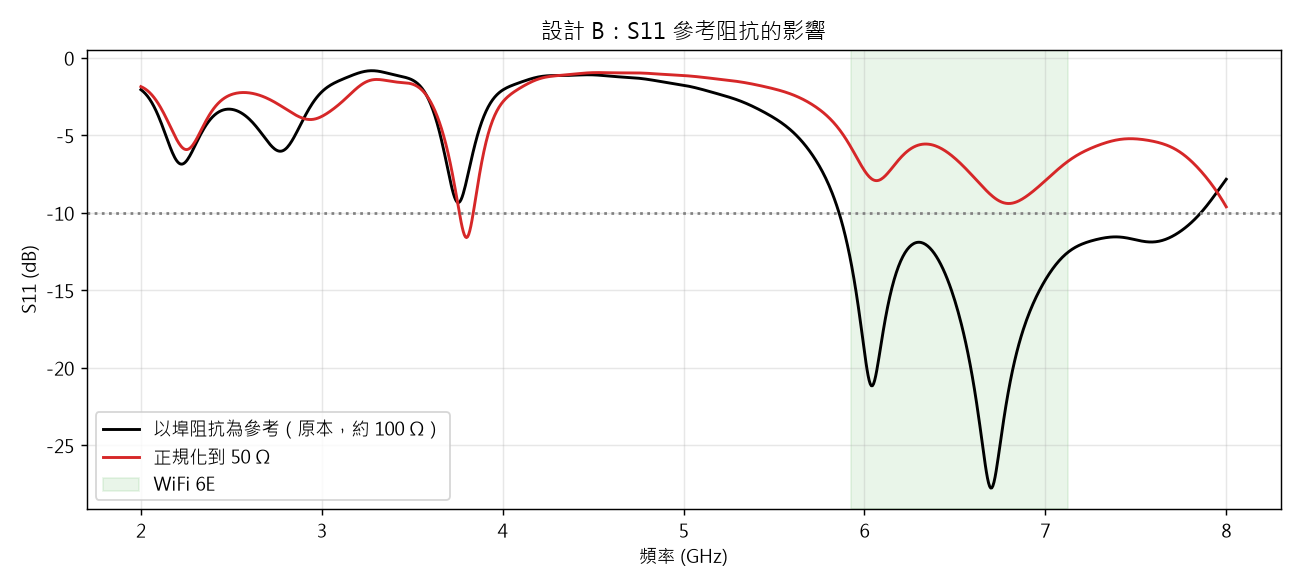
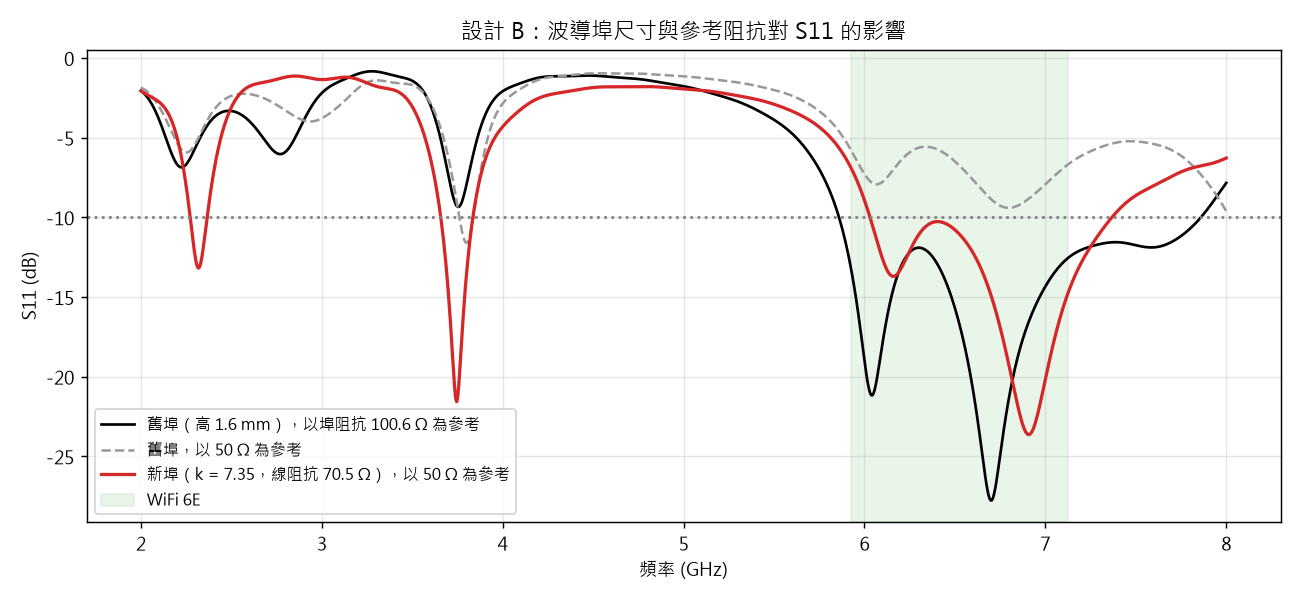
找到波導埠過小的根本原因並以修正埠驗證設計 B（50 Ω 下 91.5%），更新報告、README 與架構文件

diff --git a/README.md b/README.md
@@ -96,7 +96,8 @@ pip install -r requirements.txt   # torch 2.14.0、numpy 2.5.3、matplotlib 3.11
 每次 commit 後由 Claude 讀取變更內容整理，新的在最上面。
 
 <!-- CHANGELOG:START -->
-- **2026-11-21** 報告與參考阻抗限制：(1) 專題報告正本整理在 Claude Docs 線上文件，`report/專題報告.md` + `report/figures/` 為匯出副本；報告數字全部更新為定版模型，新增 3.1.5 獨立測試集、3.2.5 參考阻抗的限制。(2) **發現 S11 參考阻抗問題**：CST 沒勾選 Normalize to fixed impedance，所有資料以波導埠模態阻抗為參考，CST 算出埠線阻抗 100.6 Ω；verify_best3 以 50 Ω 正規化重跑後 6E 覆蓋率 100% → 0%（最差 −5.57 dB），設計是對約 100 Ω 匹配，報告列為主要限制（方案 A）。公式估此線寬約 74 Ω，和 100.6 Ω 的差異待確認波導埠設定（CST 巨集 k = 7.35）。新增 `cst/export_current_s11.bas`（不重跑、只匯出目前 S1,1），50 Ω 結果存 `data_50ohm/`（不進訓練、不上 git）。(3) `plot_sweeps` 只畫單參數掃描檔：DOE 熱圖無法和 CST 比較、單點 verify 檔畫不出熱圖（舊圖最下面兩列空白）。(4) 報告 2.2 註明基板為 CST 的 FR-4 (lossy)（εr 4.3、tan δ 0.025）。
+- **2026-11-21** 找到波導埠問題的根本原因：原本的埠（Use picks 點基板端面）只涵蓋基板厚度 z 0–1.6 mm，饋入線外側沒有空氣，CST 把線阻抗算成 100.6 Ω、等效介電常數 4.22（幾乎等於 FR-4）。依 CST 巨集 k = 7.35 重建埠（x ±12.51、z −0.035–13.395，另存專案 `wifi_test_newport`）後線阻抗 70.5 Ω（公式 74 Ω）、等效介電常數 3.21。設計 B 用修正埠＋50 Ω 正規化：**6E 覆蓋率 91.5%**（舊埠＋50 Ω 為 0%），下緣 5.925–6.032 GHz 未過線，共振 6.04/6.70 → 6.16/6.91 GHz；比較圖 `outputs/compare_port_50ohm.png`，資料 `data_50ohm/verify_best3_50ohm_newport.txt`。報告 2.2、3.2.5（改名「波導埠與參考阻抗的限制」，表 3-7 三種情況、圖 3-9 三條曲線）、摘要、4.1、4.2 改寫；未來工作改為以修正埠＋50 Ω 重跑掃描與 DOE。`export_current_s11.bas` 輸出檔名改為 `verify_best3_50ohm_newport.txt`。
+- **2026-11-21** `2d93a40` 報告與參考阻抗限制：(1) 專題報告正本整理在 Claude Docs 線上文件，`report/專題報告.md` + `report/figures/` 為匯出副本；報告數字全部更新為定版模型，新增 3.1.5 獨立測試集、3.2.5 參考阻抗的限制。(2) **發現 S11 參考阻抗問題**：CST 沒勾選 Normalize to fixed impedance，所有資料以波導埠模態阻抗為參考，CST 算出埠線阻抗 100.6 Ω；verify_best3 以 50 Ω 正規化重跑後 6E 覆蓋率 100% → 0%（最差 −5.57 dB），設計是對約 100 Ω 匹配，報告列為主要限制（方案 A）。公式估此線寬約 74 Ω，和 100.6 Ω 的差異待確認波導埠設定（CST 巨集 k = 7.35）。新增 `cst/export_current_s11.bas`（不重跑、只匯出目前 S1,1），50 Ω 結果存 `data_50ohm/`（不進訓練、不上 git）。(3) `plot_sweeps` 只畫單參數掃描檔：DOE 熱圖無法和 CST 比較、單點 verify 檔畫不出熱圖（舊圖最下面兩列空白）。(4) 報告 2.2 註明基板為 CST 的 FR-4 (lossy)（εr 4.3、tan δ 0.025）。
 - **2026-11-20** `ee8357a` 獨立測試集結果：定版模型對 `data_test/test_set.txt`（8 點，模型定版後才跑 CST，未用於訓練）設計用途 **6/8 通過**（75%，Clopper-Pearson 95% 信賴區間 35–97%），平均覆蓋率誤差 2.7 個百分點、平均邊緣誤差 31 MHz、全頻 RMSE 0.86 dB。未通過 2 點都是 −10 dB 下緣預測偏樂觀（預測 96.5% vs 實測 83.5%；95.5% vs 90.0%，後者 RMSE 只有 0.24 dB，但 S11 貼著 −10 dB，小誤差就讓下緣差 294 MHz），8 點中 6 點下緣偏低，和 ±0.5 mm 容差角落的失效方式一致。−10 dB 附近的 σ 偏保守約 2 倍。`compare_verify.py` 總結改印通過率的 Clopper-Pearson 信賴區間（不需 scipy）。
 - **2026-11-20** `fe4b420` 報告前定版：(1) 新增**設計用途準確度**（`design_accuracy`）當「模型夠準」的門檻：6E 覆蓋率誤差 ≤ 5 個百分點、−10 dB 邊緣誤差 ≤ 100 MHz（邊緣夾到頻段 ±0.2 GHz），留一驗證與 `compare_verify.py` 都會判定；留一驗證 21 點中 18 點通過（多參數 13/16），最佳區 4 點全過，未通過的是第 2 批 DOE 高 W_slot2、低 Ymax 角落 2 點與 verify_best2（偏保守）。(2) 不確定性改為只用 −10 dB 附近頻點校正：s = 3.10（全頻 3.20），幾乎沒變，因為 verify_best3 漏掉的 6.04 GHz 共振正好落在 −10 dB 附近（誤差保守）。(3) `cst/make_doe.py --test` 產生獨立測試集（verify_best3 周圍 ±1.5 mm、8 點、seed 2028），輸出到 `data_test/`，不會被訓練；`compare_verify.py` 多組時印總結與通過率 95% 信賴下限。(4) 新增 `requirements.txt`；`in_band_mask`、`main_segment` 移到 `antenna_ml.py` 共用。模型權重與上次相同（亂數種子固定），只有 s 改變，最佳化結果不變。模型就此定版。
 - **2026-11-20** `14d474c` 用全部 168 組重訓（納入 `verify_tol03`、`verify_tol05`）：留一驗證藏 21 條，平均 AI 1.20 vs baseline 1.66 dB；原本 18 點結果完全相同（1.13 dB），上升只是多了 3 個最佳區容差角落（1.96 / 1.94 / 1.00 dB，覆蓋率誤差 0–1.5 個百分點，誤差主要在共振谷深度），s 從 2.55 升到 3.20、β = 0。新第 1 名 [36.586, 13.481, 22.734, 14.537] 預測邊界餘裕 2.34 dB（±0.96），verify_best3 排第 5（預測 1.94，實測 1.91）；改進空間 ≤ 0.4 dB 小於不確定性，設計仍視為收斂。新模型重跑 `tolerance.py`：3 個角落估計與 CST 差 ≤ 0.11 dB（已是訓練點），±0.1 / 0.3 / 0.5 mm 良率 100 / 100 / 99.1%，Ymax 斜率從 +0.66 降到 +0.36 dB/mm。

diff --git a/架構與目標.md b/架構與目標.md
@@ -124,13 +124,24 @@ data/*.txt (CST 匯出)
 
 **目前最佳設計：verify_best3** [W_slot1=36.97, W_slot2=12.502, W_slot3=22.944, Ymax=13.932]，CST 實測 6E 覆蓋率 100%、邊界餘裕 1.91 dB、−10 dB 頻寬 5.864–7.856 GHz（相對頻寬約 29%）。模型預測的改進空間（約 0.4 dB 邊界餘裕）小於不確定性，**設計已經收斂**。
 
-**⚠ 主要限制：參考阻抗（2026-11-21 發現，報告寫成限制）**。CST 求解器沒勾選 **Normalize to fixed impedance**，所有 S11（168 條訓練資料、最佳化、容差、獨立測試）都以波導埠的模態阻抗為參考；CST 算出的埠線阻抗（1D Results → Port Information → Line Impedance）為 **100.6 Ω**（5 GHz）。verify_best3 勾選 50 Ω 正規化重跑（`cst/export_current_s11.bas` 匯出到 `data_50ohm/verify_best3_50ohm.txt`，不放 `data/`）：**6E 覆蓋率 100% → 0%**，帶內最差 −11.91 → −5.57 dB、平均 −17.02 → −7.40 dB，−10 dB 只剩 3.76–3.84 GHz；比較圖 `outputs/compare_50ohm.png`。也就是說設計是對約 100 Ω 匹配，接 50 Ω 接頭與儀器前需要匹配。ML 方法與準確度結論不受影響（同一參考下成立）。尚未釐清：微帶線公式估 1.5 mm 線寬在 FR-4（εr 4.3）、h 1.6 mm 上約 74 Ω（50 Ω 約需 3 mm），和 CST 的 100.6 Ω 差很多，可能是波導埠設定（埠寬取整個板寬 52 mm；CST 巨集算出 k = 7.35，建議埠寬約 25 mm、線上方高度約 11.8 mm）。
-處理方案（未做）：(A) 寫成限制（目前選擇）；(B) 若 CST 專案保留各次模擬的複數 S11，匯出後在程式中換算到 50 Ω、重訓與最佳化，不用重跑模擬；(C) 饋入線改約 3 mm 或加阻抗轉換段，以 50 Ω 正規化重新取樣。
+**⚠ 主要限制：波導埠過小（2026-11-21 發現並確認，報告寫成限制）**。
+- **原本的埠**：Use picks 點選基板下緣端面，x −26 ~ 26、z 0 ~ 1.6（只有基板厚度），延伸量 0，饋入線外側沒有空氣。求解器沒勾選 **Normalize to fixed impedance**，所以 168 條訓練資料、最佳化、容差、獨立測試的 S11 全都以這個埠的模態阻抗為參考。CST 算出線阻抗 **100.6 Ω**、β 215.3 1/m（等效介電常數約 4.22，幾乎等於 FR-4 本身 → 空氣中的電場被截掉）。
+- **修正後的埠**（CST 巨集 Calculate port extension coefficient：W 1.5、h 1.6、εr 4.3、2–8 GHz → k = 7.35）：x −12.51 ~ 12.51、z −0.035 ~ 13.395、Ypos −25（Use picks + 延伸量 X −13.49、Zmin 0.035、Zmax 11.795；Free 模式的 Free normal position 在 CST 2025 沒生效，埠會跑到計算空間邊界 y ≈ −40）。線阻抗 **70.5 Ω**（公式估 74 Ω）、β 187.9 1/m（等效介電常數約 3.21），證實 100.6 Ω 是埠太小的假象。CST 專案另存為 `wifi_test_newport`，原專案未動。
+- **設計 B 三種情況**（比較圖 `outputs/compare_port_50ohm.png`，資料在 `data_50ohm/`，不進訓練、不上 git）：
+
+  | 埠 | 參考阻抗 | 6E 覆蓋率 | 帶內最差 | 涵蓋 6E 的 −10 dB 區段 |
+  |---|---|---|---|---|
+  | 原本 | 埠阻抗 100.6 Ω（訓練資料） | 100% | −11.91 dB | 5.864–7.856 GHz |
+  | 原本 | 50 Ω | 0% | −5.57 dB | 無 |
+  | **修正** | **50 Ω** | **91.5%** | −6.99 dB | 6.032–7.364 GHz |
+
+  修正後兩個共振從 6.04 / 6.70 移到 6.16 / 6.91 GHz，下緣 5.925–6.032 GHz（約 107 MHz）沒過線，和獨立測試集、±0.5 mm 容差角落的失效位置相同。
+- ML 方法與準確度結論不受影響（同一埠設定下成立）；要讓設計在 50 Ω 系統可用，需以修正後的埠＋50 Ω 正規化重跑掃描與 DOE（既有巨集，約 170 組），再用同一套程式重訓與最佳化。原本規劃的「匯出複數 S11 離線換算 50 Ω」不可行：問題在埠本身，不只是參考阻抗。
 
 報告前要補的（依重要性）：
 
 1. ~~獨立測試集~~ **已完成**：6/8 通過（95% 信賴區間 35–97%），失效都是 −10 dB 下緣偏樂觀，見第 6 步。
-1. **確認波導埠設定**：看 Port Modes 的電場分佈、接地面與基板是否延伸到埠面；以 k = 7.35 建埠重跑比較 S11 與 Line Impedance，釐清 100.6 Ω vs 74 Ω。
+1. ~~確認波導埠設定~~ **已完成**：埠高度只有基板厚度；以 k = 7.35 重建後線阻抗 70.5 Ω，設計 B 在 50 Ω 下 91.5%（見上）。
 2. **CST 網格收斂**：verify_best3 用加密網格再跑 1 組，帶內最差點變化應 < 0.2 dB，否則 0.3–0.5 mm 容差結論要保留。
 3. **板厚、介電常數容差**：模型沒學過這兩個固定參數，只能直接用 CST 跑（H_sub 1.5 / 1.7 mm、介電常數 ±0.2）。介電常數偏低會讓頻率往高漂，正好是下緣這個弱點。
 4. **輻射特性**：目前只評估 S11；若規格要求增益、效率、方向圖，用 CST farfield monitor 看 5.925 / 6.5 / 7.125 GHz。
